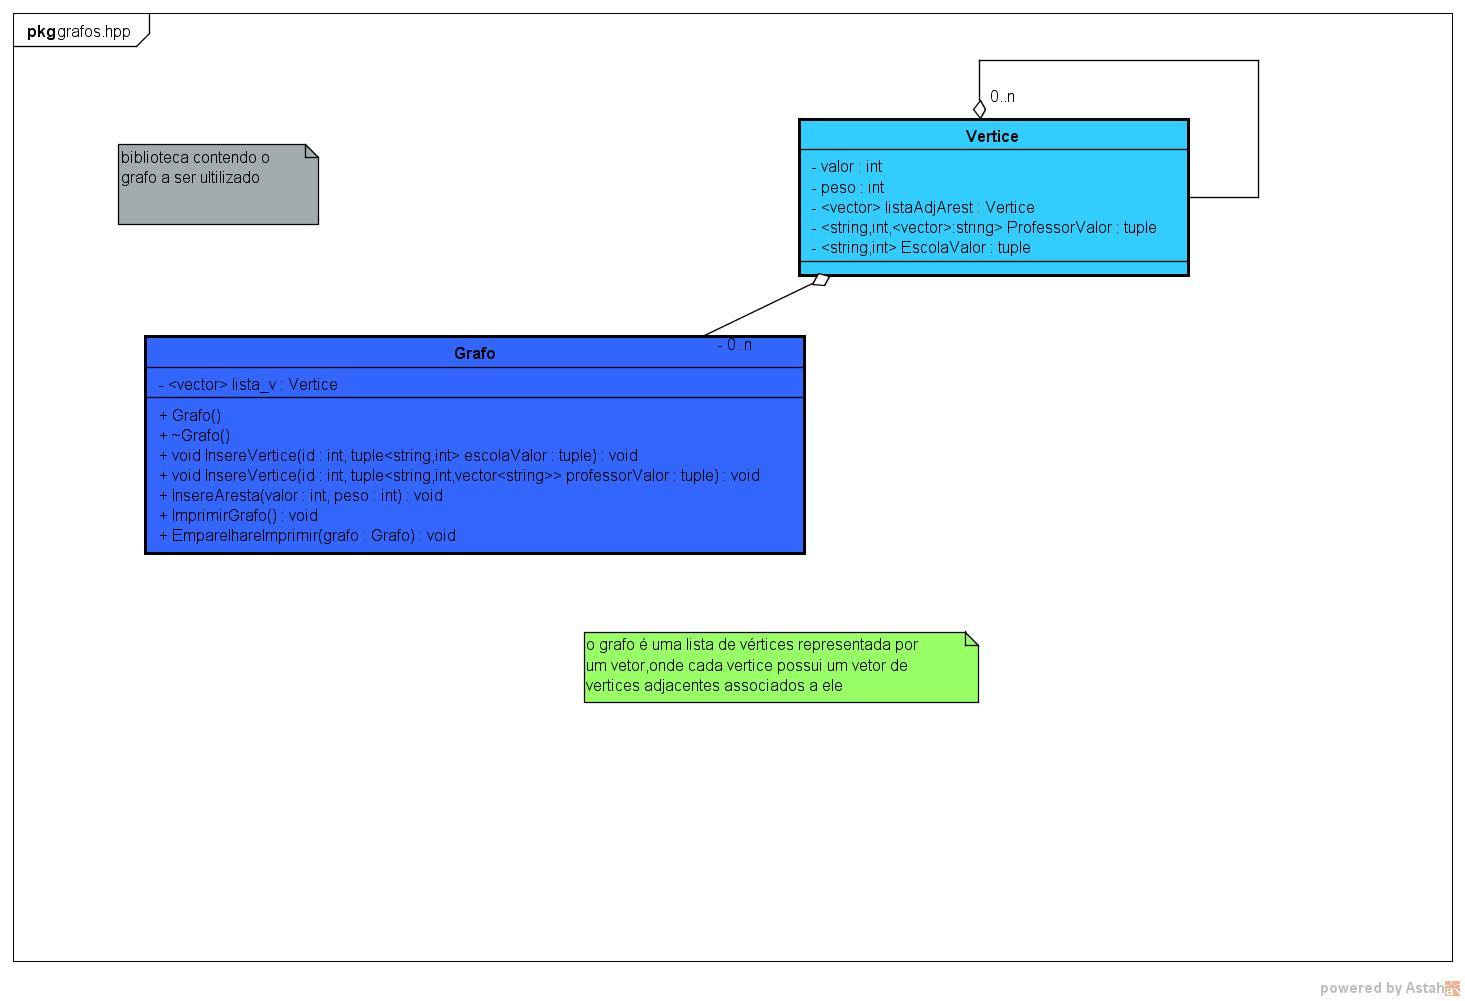
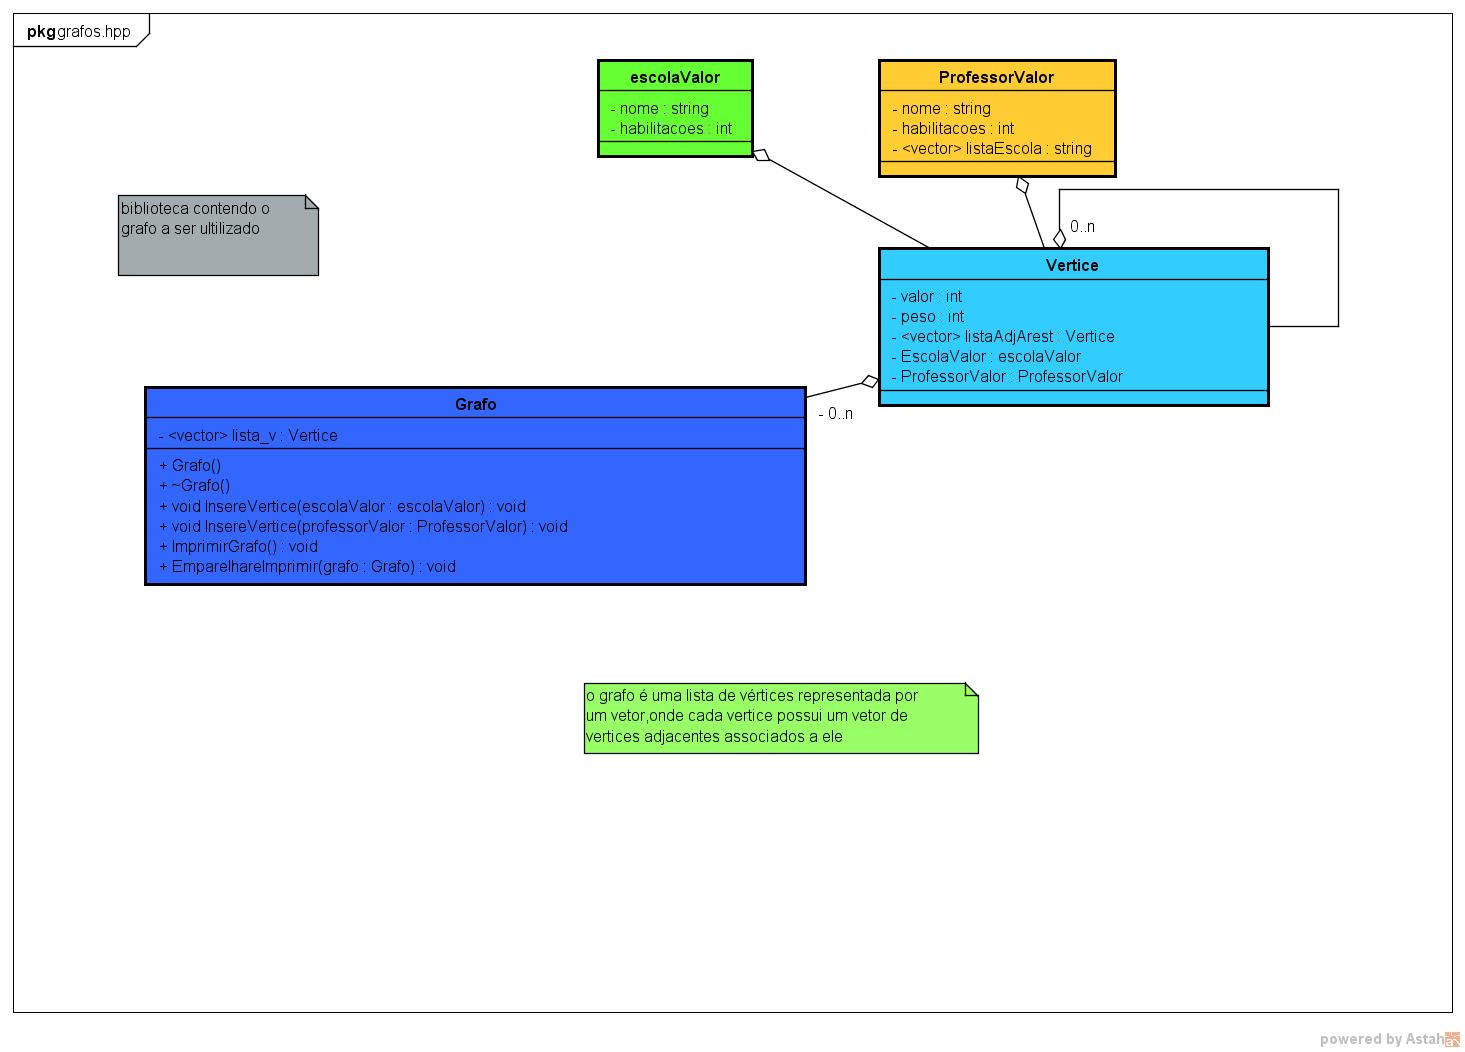
alterando diagramas+implementacao

diff --git a/grafos.cpp b/grafos.cpp
@@ -2,7 +2,7 @@
 
 Grafo::Grafo()
 {
-
+	elementoverificado = 0;
 }
 
 Grafo::~Grafo()
@@ -10,151 +10,131 @@ Grafo::~Grafo()
 
 }
 
-void Grafo::InsereVertice(int id,std::tuple<string,int,std::vector<string>> professorValor)
+void Grafo::InsereVertice(profValor professorValor)
 {
 	Vertice novovertice;
-	novovertice.valor = id;
-	novovertice.peso = 0;
+	novovertice.valor = -1;
+	novovertice.elos = 0;
+	novovertice.EscolaValor.nome = "";
+	novovertice.EscolaValor.habilitacoes = 0;
 	novovertice.ProfessorValor = professorValor;
 	lista_v.push_back(novovertice);
 }
 
-void InsereVertice(int id,std::tuple<string,int> escolaValor)
+void Grafo::InsereVertice(escolaValor escolaValor)
 {
 	Vertice novovertice;
-	novovertice.valor = id;
-	novovertice.peso = 0;
+	novovertice.valor = -1;
+	novovertice.elos = 0;
+	novovertice.ProfessorValor.nome = "";
+	novovertice.ProfessorValor.habilitacoes = 0;
 	novovertice.EscolaValor = escolaValor;
 	lista_v.push_back(novovertice);	
 }
 
-void Grafo::InsereAresta(int v1,int v2,int peso)
+void Grafo::InsereVertice(int valor)
 {
-	int i = 0;
-
-	while((i!=lista_v.size())&&(v1 != lista_v[i].valor)){
-		i++;
-	}
-	if(i == lista_v.size()){
-		return;
-	}
-	int j = 0;
-	while((j!=lista_v.size())&&(v2 != lista_v[j].valor)){
-		j++;
-	}
-	if(j == lista_v.size()){
-		return;
-	}
-	Vertice novaAresta;
-	novaAresta.valor = v2;
-	novaAresta.peso = peso;
-	lista_v[i].listaAdjArest.push_back(novaAresta);
+	Vertice novovertice;
+	novovertice.elos = 0;
+	novovertice.valor = valor;
+	novovertice.ProfessorValor.nome = "";
+	novovertice.ProfessorValor.habilitacoes = 0;
+	novovertice.EscolaValor.nome = "";
+	novovertice.EscolaValor.habilitacoes = 0;
+	lista_v.push_back(novovertice);	
 }
 
 void Grafo::ImprimirGrafo()
 {
 	int i=0,j=0;
 
-	for(i=0;i<lista_v.size();i++){
-		cout << lista_v[i].valor;
-		for(j=0;j < lista_v[i].listaAdjArest.size();j++){
+	if(TADEscola()){
+		for(i=0;i<(signed)lista_v.size();i++){
+			cout << "Escola:" << lista_v[i].EscolaValor.nome << ":" << lista_v[i].EscolaValor.habilitacoes;
+		for(j=0;j < (signed)lista_v[i].listaAdjArest.size();j++){
+			cout << "->" << lista_v[i].listaAdjArest[j].ProfessorValor.nome << ":" << lista_v[i].listaAdjArest[j].ProfessorValor.habilitacoes;
+		}
+			cout << endl;
+		}
+	}else if(TADProfessor()){
+		for(i=0;i<(signed)lista_v.size();i++){
+			cout << "Professor:" << lista_v[i].ProfessorValor.nome << ":" << lista_v[i].ProfessorValor.habilitacoes;
+		for(j=0;j < (signed)lista_v[i].listaAdjArest.size();j++){
+			cout << "->" << lista_v[i].listaAdjArest[j].EscolaValor.nome << ":" << lista_v[i].listaAdjArest[j].EscolaValor.habilitacoes;
+		}
+			cout << endl;
+		}
+	}else{
+		for(i=0;i<(signed)lista_v.size();i++){
+			cout << lista_v[i].valor;
+		for(j=0;j < (signed)lista_v[i].listaAdjArest.size();j++){
 			cout << "->" << lista_v[i].listaAdjArest[j].valor;
 		}
-		cout << endl;
+			cout << endl;
+		}
 	}
 }
 
-Caminho Grafo::getMaiorCaminho(int v)throw(runtime_error)
+bool Grafo::TADEscola()
 {
-	Caminho maiorCaminho_v;
-	maiorCaminho_v.somapesos = 0;
-	Caminho maiorCaminho;
-	Caminho candidatoMaior;
+	if((lista_v[0].EscolaValor.nome != "")&&(lista_v[0].EscolaValor.habilitacoes!=0)){
+		return true;
+	}
+	return false;
+}
+
+bool Grafo::TADProfessor()
+{
+	if((lista_v[0].ProfessorValor.nome != "")&&(lista_v[0].ProfessorValor.habilitacoes!=0)&&(!lista_v[0].ProfessorValor.listaEscola.empty())){
+		return true;
+	}
+	return false;
+}
+
+bool Grafo::TADValor()
+{
+	if(lista_v[0].valor != -1){
+		return true;
+	}
+	return false;
+}
+
+
+bool Grafo::VerificarRequisitos(int habilitacoes,string escola){
 	int i=0;
 
-	maiorCaminho.path.push_back(v);
-	maiorCaminho.somapesos = 0;
-
-	while((i!=lista_v.size())&&(lista_v[i].valor != v)){
+	while((i!=(signed)lista_v.size())&&(lista_v[i].EscolaValor.nome!=escola)){
 		i++;
 	}
-	if(i == lista_v.size()){
-		throw runtime_error("Impossivel Calcular Maior Caminho");
+	if(i!=(signed)lista_v.size()){
+		if((habilitacoes >= lista_v[i].EscolaValor.habilitacoes)&&(lista_v[i].elos!=2)){
+			elementoverificado = i;
+			lista_v[i].elos++;
+			return true;
+		}
+		elementoverificado = -1;
 	}
+	return false;
+}
 
-	int j=0;
-	if(!lista_v[i].listaAdjArest.empty()){
-		for(j=0;j<lista_v[i].listaAdjArest.size();j++){
-			try{
-				candidatoMaior = getMaiorCaminho(lista_v[i].listaAdjArest[j].valor);
-				candidatoMaior.somapesos+=lista_v[i].listaAdjArest[j].peso;
-			}catch(runtime_error &e){
-			}
-			if(candidatoMaior.somapesos > maiorCaminho_v.somapesos){
-				maiorCaminho_v = candidatoMaior;
+void Grafo::Emparelhar(Grafo grafo){
+	if((TADProfessor())&&(grafo.TADEscola())){
+		for(int i=0;i<(signed)lista_v.size();i++){
+			std::vector<string> listaEscolas = lista_v[i].ProfessorValor.listaEscola;
+			int j = listaEscolas.size();
+			while(j!=-1){
+				if(grafo.VerificarRequisitos(lista_v[i].ProfessorValor.habilitacoes,listaEscolas[j])){
+					lista_v[i].listaAdjArest.push_back(grafo.lista_v[grafo.elementoverificado]);
+				}
+				j--;
 			}
 		}
 	}
-	maiorCaminho.path.insert(maiorCaminho.path.end(),maiorCaminho_v.path.begin(),maiorCaminho_v.path.end());
-	maiorCaminho.somapesos+=maiorCaminho_v.somapesos;
-	return maiorCaminho;
+
 }
 
-bool Grafo::ExistemArestas(int v){
-	int i =0;
-
-	while((i!=lista_v.size())&&(v!=lista_v[i].valor)){
-		i++;
-	}
-	if((i == lista_v.size())||(lista_v[i].listaAdjArest.empty())){
-		return false;
-	}
-	return true;
-}
-
-bool Grafo::EstaMarcado(int n){
-	int i = 0;
-
-	while((i!=marcados.size())&&(marcados[i] != n)){
-		i++;
-	}
-	if(i == marcados.size()){
-		return false;
-	}
-	return true;
-}
-
-void Grafo::Marcar(int v){
-	marcados.push_back(v);
-}
-
-void Grafo::LimparMarcas(){
-	marcados.clear();
-}
-
-void Grafo::VisitaNo(Vertice n){
-	int j = 0;
-	if(!EstaMarcado(n.valor)){
-		Marcar(n.valor);
-		for(j=0;j < n.listaAdjArest.size();j++){
-			VisitaNo(n.listaAdjArest[j]);
-		}
-		Ordenado.push_back(n.valor);
-	}
-}
-
-void Grafo::Ordem_Topologica(){
-	std::vector<Vertice> S = lista_v;
-	Vertice n;
-
-	for(int i=0;i<S.size();i++){
-		n = S[i];
-		VisitaNo(n);
-	}
-	LimparMarcas();
-}
-
-void EmparelhareImprimir(Grafo grafo)
+void Grafo::EmparelhareImprimir(Grafo grafo)
 {
-
+	Emparelhar(grafo);
+	ImprimirGrafo();
 }

diff --git a/grafos.hpp b/grafos.hpp
@@ -4,17 +4,27 @@
 #include <string>
 #include <stdexcept>
 #include <vector>
-#include <tuple>
 
 using namespace std;
+
+typedef struct PValor{
+  string nome;
+  int habilitacoes;
+  std::vector<string> listaEscola;
+}profValor;
+
+typedef struct EValor{
+  string nome;
+  int habilitacoes;
+}escolaValor;
 
 class Vertice{ /*classe do vertice*/
 friend class Grafo;
 private:
-  std::tuple<string,int,std::vector<string>> ProfessorValor
-  std::tuple<string,int> EscolaValor
+  profValor ProfessorValor;
+  escolaValor EscolaValor;
   int valor;
-  int peso; /*peso da aresta*/
+  int elos;
   std::vector<Vertice> listaAdjArest; /*lista de Adjacencia*/
 };
 
@@ -27,22 +37,19 @@ private:
 
 class Grafo{
 private:
-  std::vector<int> Ordenado; /*lista ordenada de vertices*/
-  std::vector<int> marcados; /*lista de vertices marcados*/
+  int elementoverificado;
   std::vector<Vertice> lista_v; /*lista de vertices do grafo*/
-  bool EstaMarcado(int v);/*indica se um vertice esta marcado ou nao*/
-  void Marcar(int v); /*marca um vertice*/
-  void LimparMarcas(); /*limpa o vertor de marcas*/
-  Caminho getMaiorCaminho(int v)throw(runtime_error); /*retorna o CPM do grafo apartir de um vertice*/
-  bool ExistemArestas(int v); /*verifica se existem arestas no vertice v*/
-  void VisitaNo(Vertice n); /*Visita um no n no grafo*/
-  void Ordem_Topologica(); /*ordena o grafo em ordem topologica*/
+  bool TADEscola();
+  bool TADProfessor();
+  bool TADValor();
+  bool VerificarRequisitos(int habilitacoes,string escola);
+  void Emparelhar(Grafo grafo);
 public:
   Grafo(); /*construtor e destrutor do grafo*/
   ~Grafo();
-  void InsereVertice(int id,std::tuple<string,int,std::vector<string>> professorValor);
-  void InsereVertice(int id,std::tuple<string,int> escolaValor);
-  void InsereAresta(int v1,int v2,int peso); /*cria a aresta (v1,v2) e insere o peso correspondente*/
+  void InsereVertice(profValor professorValor);
+  void InsereVertice(escolaValor escolaValor);
+  void InsereVertice(int valor);
   void ImprimirGrafo(); /*imprime o grafo*/
   void EmparelhareImprimir(Grafo grafo); /*recebe um grafo para emparelhar e imprime o grafo emparelhado*/
 };

diff --git a/main.cpp b/main.cpp
@@ -18,11 +18,11 @@ int main(){
   gr.InsereAresta(113034,113450, 10);
 
 
-  gr.ImprimirGrafo();*/
+  gr.ImprimirGrafo();
 
   InsereRegistros(&gr);
   gr.ImprimirGrafo();
   gr.ImprimirTopologicamente();
-  gr.ImprimirCaminhoCritico();
+  gr.ImprimirCaminhoCritico();*/
 	return 0;
 }
